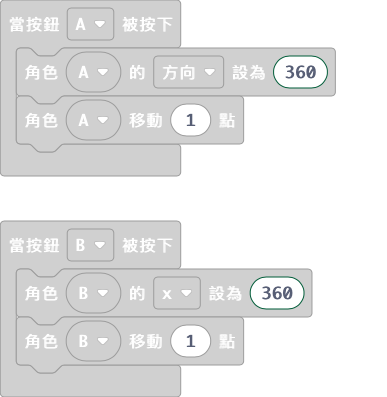
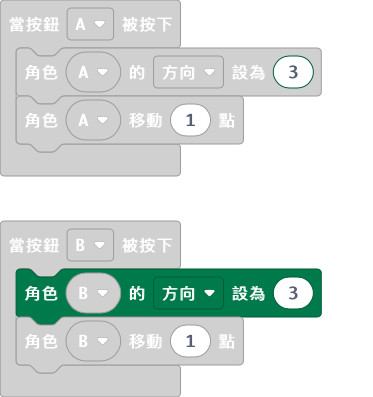
Update main.blocks, main.ts

diff --git a/main.ts b/main.ts
@@ -1,9 +1,9 @@
 input.onButtonPressed(Button.A, function () {
-    A.set(LedSpriteProperty.Direction, 360)
+    A.set(LedSpriteProperty.Direction, 3)
     A.move(1)
 })
 input.onButtonPressed(Button.B, function () {
-    B.set(LedSpriteProperty.X, 360)
+    B.set(LedSpriteProperty.Direction, 3)
     B.move(1)
 })
 let B: game.LedSprite = null
